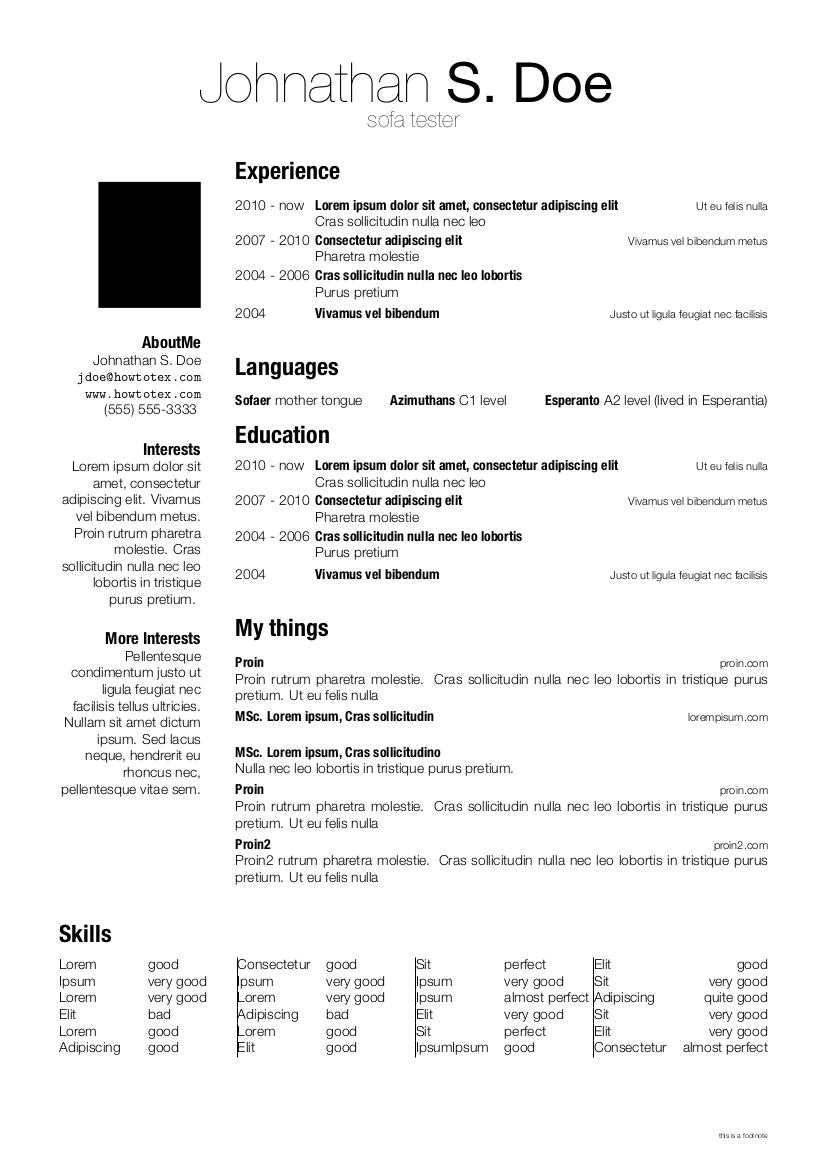
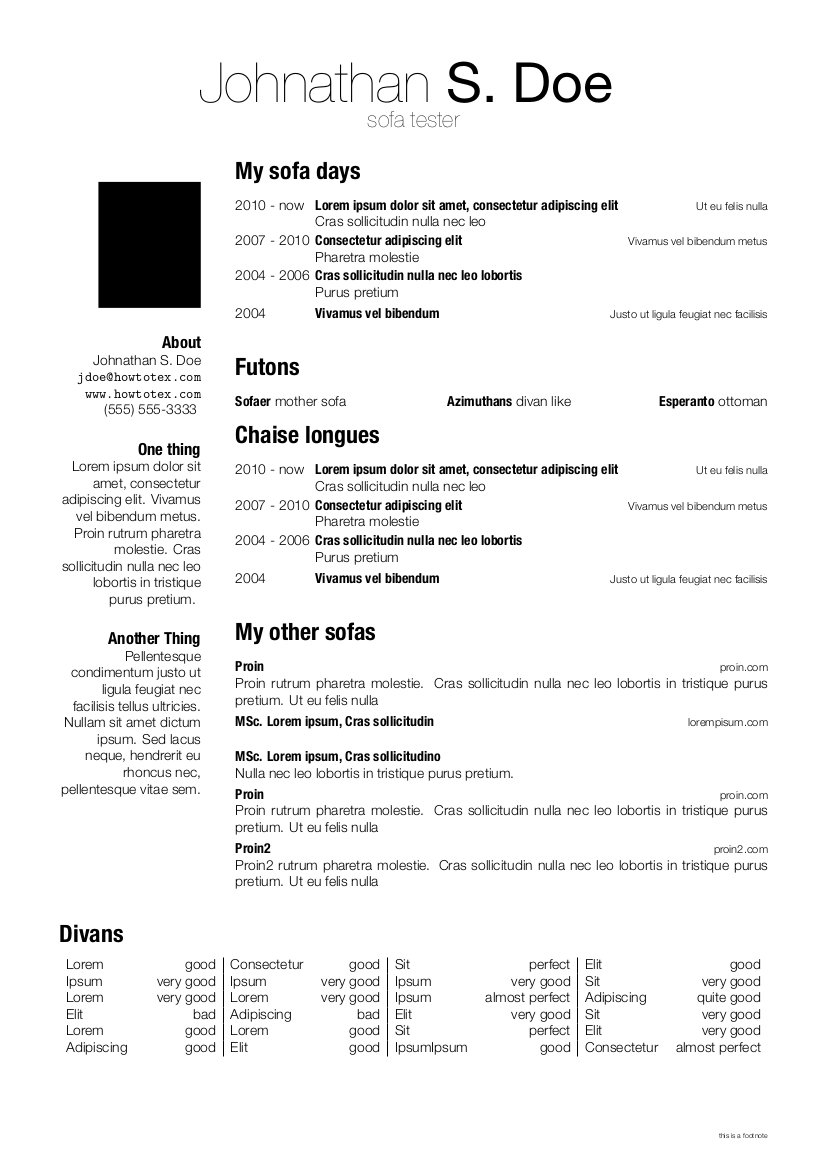
modified example.tex: new table, different section names

diff --git a/example.tex b/example.tex
@@ -25,14 +25,14 @@
 %%%% ASIDE %%%%%%%%%%%%%%%%%%%%%%%%%%%%%%%%%%%%%%%%%%%%%%%%%%%%%%%%%%%%%%%%%%%%%
 \begin{flushright}
     \rule{2.6cm}{3.2cm}%foto
-    \subsection{AboutMe}
+    \subsection{About}
         Johnathan S. Doe \\
         \url{jdoe@howtotex.com}  \\
         \url{www.howtotex.com} \\
         (555) 555-3333
-    \subsection{Interests}
+    \subsection{One thing}
 	 Lorem ipsum dolor sit amet, consectetur adipiscing elit. Vivamus vel bibendum metus. Proin rutrum pharetra molestie. Cras sollicitudin nulla nec leo lobortis in tristique purus pretium.
-    \subsection{More Interests}
+    \subsection{Another Thing}
 	Pellentesque condimentum justo ut ligula feugiat nec facilisis tellus ultricies. Nullam sit amet dictum ipsum. Sed lacus neque, hendrerit eu rhoncus nec, pellentesque vitae sem.
 
 \end{flushright}
@@ -42,7 +42,7 @@
 
  
 %%%% MAIN1 %%%%%%%%%%%%%%%%%%%%%%%%%%%%%%%%%%%%%%%%%%%%%%%%%%%%%%%%%%%%%%%%%%%%%
-\section{Experience}
+\section{My sofa days}
     \begin{entrylistdated}
       \entrydated
         {2010 - now}
@@ -68,13 +68,13 @@
 
 
 
-\section{Languages}
+\section{Futons}
     \begin{tabularx}{\linewidth}{XXr}
-        \textbf{Sofaer} mother tongue & \textbf{Azimuthans} C1 level & \textbf{Esperanto} A2 level (lived in Esperantia) \tabularnewline
+        \textbf{Sofaer} mother sofa & \textbf{Azimuthans} divan like & \textbf{Esperanto} ottoman \tabularnewline
     \end{tabularx}
  
 
-\section{Education}
+\section{Chaise longues}
     \begin{entrylistdated}
       \entrydated
         {2010 - now}
@@ -98,7 +98,7 @@
         {}
     \end{entrylistdated}
 
-\section{My things}
+\section{My other sofas}
     \begin{entrylist}
       \entry
         {Proin}
@@ -127,9 +127,10 @@
 
 
 %%%% MAIN2 %%%%%%%%%%%%%%%%%%%%%%%%%%%%%%%%%%%%%%%%%%%%%%%%%%%%%%%%%%%%%%%%%%%%%
-\section{Skills}
+\section{Divans}
 \providecommand{\tabularnewline}{\\}
-    \begin{tabularx}{\linewidth}{XX| XX| XX| Xr}
+\setlength{\tabcolsep}{5pt}
+    \begin{tabularx}{\linewidth}{X r | X r | X r | X r}
        Lorem       &  good & Consectetur       &  good & Sit      &  perfect &  Elit   &  good\tabularnewline
        Ipsum    &  very good & Ipsum    &  very good & Ipsum      &  very good & Sit            &  very good\tabularnewline
        Lorem     &  very good & Lorem     &  very good & Ipsum      &  almost perfect & Adipiscing               &  quite good\tabularnewline
@@ -144,7 +145,7 @@
 
 %%%% REST OF PAGES %%%%%%%%%%%%%%%%%%%%%%%%%%%%%%%%%%%%%%%%%%%%%%%%%%%%%%%%%%%%%
 
-\section{Experience}
+\section{Settee}
     \begin{entrylistdated}
       \entrydated
         {2010 - now}
@@ -170,13 +171,13 @@
 
 
 
-\section{Languages}
+\section{Futons}
     \begin{tabularx}{\linewidth}{XXr}
-        \textbf{Sofaer} mother tongue & \textbf{Azimuthans} C1 level & \textbf{Esperanto} A2 level (lived in Esperantia) \tabularnewline
+        \textbf{Sofaer} mother sofa & \textbf{Azimuthans} divan like & \textbf{Esperanto} ottoman \tabularnewline
     \end{tabularx}
  
 
-\section{Education}
+\section{Chaise longues}
     \begin{entrylistdated}
       \entrydated
         {2010 - now}
@@ -200,7 +201,7 @@
         {}
     \end{entrylistdated}
 
-\section{My things}
+\section{My other chaise longes}
     \begin{entrylist}
       \entry
         {Proin}
